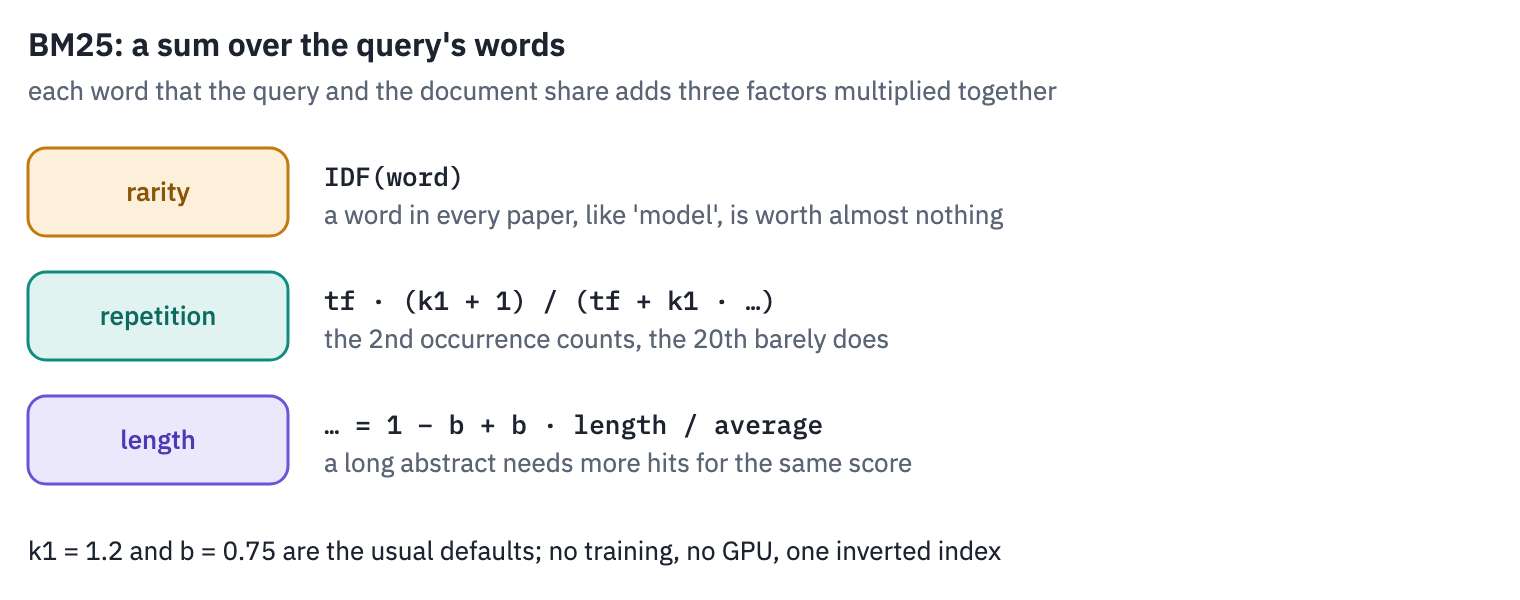
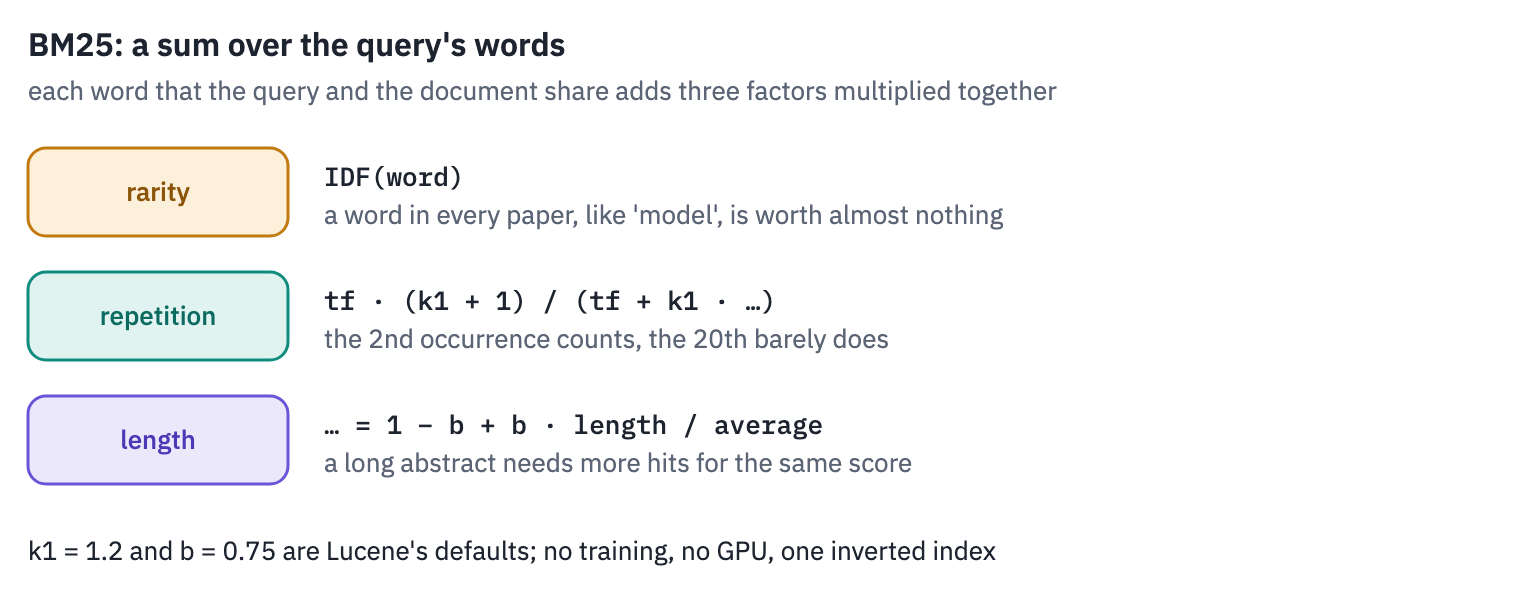
Lesson a03: checked facts — BM25 origin and defaults, BGE instruction, MS MARCO labels, ColBERT and PLAID numbers

Changed region(s): [[0.2164, 0.9, 0.6803, 0.96]]

diff --git a/architectures/a03_search/lesson.py b/architectures/a03_search/lesson.py
@@ -68,8 +68,10 @@ half = torch.float16 if device == "cuda" else torch.float32  # what indexes are 
 # LitSearch is a benchmark built at Princeton from the way researchers look for papers
 # ([Ajith et al., 2024](https://arxiv.org/abs/2407.18940)). Some of its 597 questions were written by GPT-4 from
 # paragraphs of real papers that cite other work, and ask for the paper behind the citation; the others were
-# written by the authors of recent ACL and ICLR papers about their own papers. Experts checked or edited every one.
-# The corpus is 64,183 machine-learning and NLP papers, and each question names the one or few papers it is after.
+# written by authors of ACL 2023 and ICLR 2024 papers about their own papers. The benchmark's authors checked every
+# question by hand. The corpus is 64,183 papers from the ACL Anthology and ICLR, and each question names the one or
+# few papers it is after. The benchmark was not built to flatter anyone: in its paper, Google Search and research
+# tools lagged behind the best neural retriever "by up to 32 recall points".
 #
 # The corpus files also hold the full text of every paper, more than a gigabyte of it. We need only titles and
 # abstracts, and Parquet stores every column separately, so we read just those three columns straight from the
@@ -146,8 +148,10 @@ def evaluate(name, scores, seconds, index_bytes):
 #
 # Before any neural network, search engines scored a document by the words it shares with the query, and the
 # formula most of them settled on is **BM25**, from Stephen Robertson's Okapi system at City University London in
-# the 1990s. It is still the default ranking of Lucene, Elasticsearch and OpenSearch, and the first baseline in
-# every retrieval paper. For a query $q$ and a document $d$:
+# the 1990s; its report for TREC-3 says, with no ceremony, "we in effect combined BM11 and BM15 into a single
+# function BM25" ([Robertson et al., 1995](https://trec.nist.gov/pubs/trec3/papers/city.ps.gz)). Thirty years later
+# it is the default ranking of Lucene, Elasticsearch and OpenSearch, and the first baseline in every retrieval
+# paper. For a query $q$ and a document $d$:
 #
 # $$\text{BM25}(q, d) = \sum_{w \in q} \text{IDF}(w) \cdot
 # \frac{f(w, d)\,(k_1 + 1)}{f(w, d) + k_1 \left(1 - b + b\,\frac{|d|}{\text{avgdl}}\right)},
@@ -250,7 +254,9 @@ evaluate("BM25", bm25_scores, time.time() - start, postings * 8)  # int32 id + f
 #
 # The obvious way to turn an encoder into a search engine is to average the vectors it computes for the tokens of a
 # text and compare the averages by cosine. Reimers and Gurevych tried it with BERT and found that it "yields rather
-# bad sentence embeddings, often worse than averaging GloVe embeddings". Let's see why.
+# bad sentence embeddings, often worse than averaging GloVe embeddings". On their semantic similarity tests, averaged
+# BERT vectors scored 54.8, BERT's `[CLS]` vector 29.2, and plain averaged GloVe word vectors from 2014 scored 61.3.
+# Let's see why.
 #
 # We take **MiniLM-L6**, a small encoder with BERT's architecture. Microsoft distilled a 12-layer, 384-wide MiniLM
 # from a larger model ([Wang et al., 2020](https://arxiv.org/abs/2002.10957)), and Nils Reimers, the same one, cut it
@@ -443,8 +449,9 @@ plt.show()
 
 # %% [markdown]
 # Two random papers have a cosine of about 0.8 here, and a question with the paper it asks for is barely closer.
-# All the vectors crowd into a narrow cone, a property of contextual representations that
-# [Ethayarajh (2019)](https://arxiv.org/abs/1909.00512) measured in BERT, ELMo and GPT-2 and called **anisotropy**.
+# All the vectors crowd together. [Ethayarajh (2019)](https://arxiv.org/abs/1909.00512) found the same in almost
+# every layer of BERT, ELMo and GPT-2: their representations are **anisotropic**, "occupying a narrow cone in the
+# vector space" instead of spreading in all directions.
 # Nothing in masked language modelling asked the model to put texts with similar meanings close together and the
 # rest far apart; the vectors are good for predicting the next layer's job, not for being compared with each other.
 # To compare, the encoder has to be trained to compare.
@@ -456,9 +463,10 @@ plt.show()
 # calls it siamese), with mean pooling on top. All the novelty is in the training. In 2019 it learned from pairs of
 # sentences labelled by people as entailment, contradiction or neutral, the SNLI and MultiNLI datasets. Today the
 # standard is **contrastive training with in-batch negatives**, which needs no labels at all, only pairs of texts
-# that belong together: a question and its answer, a title and its abstract
-# ([Henderson et al., 2017](https://arxiv.org/abs/1705.00652);
-# [Karpukhin et al., 2020](https://arxiv.org/abs/2004.04906)).
+# that belong together: a question and its answer, a title and its abstract. Google's Smart Reply team put it in one
+# sentence: "we use the responses of other examples in a training batch ... as negative responses"
+# ([Henderson et al., 2017](https://arxiv.org/abs/1705.00652)), and Dense Passage Retrieval made the trick standard
+# for search ([Karpukhin et al., 2020](https://arxiv.org/abs/2004.04906)).
 #
 # <img src="https://raw.githubusercontent.com/xmarva/transformers-from-scratch/main/assets/figures/a03/inbatch-light.png" width="760" alt="Training with in-batch negatives. A batch holds the titles and abstracts of four papers. Every title is compared with every abstract; for each title, its own abstract is the right answer and the other abstracts of the batch are wrong ones, so the loss is cross-entropy over each row of the similarity matrix">
 #
@@ -468,7 +476,8 @@ plt.show()
 # $$\mathcal{L} = -\frac{1}{B} \sum_{i=1}^{B} \log
 # \frac{\exp\left(s \cdot \cos(t_i, a_i)\right)}{\sum_{j=1}^{B} \exp\left(s \cdot \cos(t_i, a_j)\right)}$$
 #
-# This loss has many names: InfoNCE, the multiple negatives ranking loss, NT-Xent. The scale $s = 20$, a temperature
+# This loss has many names: InfoNCE ([van den Oord et al., 2018](https://arxiv.org/abs/1807.03748)), the multiple
+# negatives ranking loss, NT-Xent. The scale $s = 20$, a temperature
 # of 0.05, is what the sentence-transformers library uses by default: cosines live in $[-1, 1]$, and without the
 # scale the softmax over them would be almost flat.
 #
@@ -577,11 +586,12 @@ plt.show()
 # %% [markdown]
 # ## 5. What a billion pairs buy
 #
-# **all-MiniLM-L6-v2** is the most downloaded sentence-embedding model on the Hugging Face Hub. Its model card says
+# **all-MiniLM-L6-v2** is not just the most popular embedding model: with 184 million downloads in the month before
+# this lesson was written, it is the most downloaded model of any kind on the Hugging Face Hub. Its model card says
 # it started from exactly our `nreimers/MiniLM-L6-H384-uncased` and was trained with the same loss, on 1,170,060,424
 # pairs from 290 sources: Reddit, Stack Exchange, WikiAnswers, PAQ, and 41,769,185 titles with their abstracts from
-# the S2ORC corpus of scientific papers, which is our task at seven hundred times our scale. It trained for 100,000
-# steps of 1,024 pairs on a TPU v3-8.
+# the S2ORC corpus of scientific papers, which is our task at 750 times our scale. It trained for 100,000 steps of
+# 1,024 pairs on a TPU v3-8.
 #
 # Same architecture, same starting point, same loss; only the data differ. Its weights load into our code, and the
 # check against Hugging Face's `BertModel`:
@@ -606,8 +616,9 @@ minilm_docs, minilm_scores = dense_search("all-MiniLM-L6-v2", minilm)
 # **BGE** models from the Beijing Academy of Artificial Intelligence are a newer generation of the same idea
 # ([Xiao et al., 2023](https://arxiv.org/abs/2309.07597)): BERT's architecture again, with pre-training aimed at
 # retrieval, contrastive training on a larger and cleaner collection, and a final round on labelled data. The base
-# size has 12 layers and 768 dimensions. Its model card asks for two things that are easy to miss: the embedding is
-# the vector of `[CLS]`, not the mean, and a query, though not a document, starts with an instruction.
+# size has 12 layers and 768 dimensions. Its model card says two things that are easy to miss: the embedding is the
+# vector of `[CLS]`, not the mean, and a query, though not a document, should start with an instruction; without
+# it, the card promises "a slight degradation".
 
 # %%
 BGE = "BAAI/bge-base-en-v1.5"
@@ -629,19 +640,20 @@ table(pd.DataFrame(results))
 # ## 6. The cross-encoder: reading the question and the paper together
 #
 # A bi-encoder never sees the query and the document at the same time; it compares two summaries written
-# independently. A **cross-encoder** is plain BERT used the way lesson 1 used it for pairs of sentences: the query
-# and the document go in as one input, `[CLS] query [SEP] document [SEP]`, the two parts marked by their segment
-# ids, and every token of the query attends to every token of the document in every layer. On top sits a classifier
-# that turns the `[CLS]` vector into one number, a relevance score.
+# independently. A **cross-encoder** is plain BERT reading a pair of texts, in the input format of lesson 1: the
+# query and the document go in as one sequence, `[CLS] query [SEP] document [SEP]`, the two parts marked by their
+# segment ids, and every token of the query attends to every token of the document in every layer. On top sits a
+# classifier that turns the `[CLS]` vector into one number, a relevance score.
 #
-# It is the most accurate of the three architectures and the most expensive: nothing can be computed before the
-# query arrives. Scoring all 58,000 papers for one question would take 58,000 passes of the encoder. So a
-# cross-encoder is used as a **reranker**: a fast retriever proposes a few dozen candidates and the cross-encoder
-# reorders them.
+# Putting BERT on top of BM25 this way was one of the first places where BERT took over search
+# ([Nogueira & Cho, 2019](https://arxiv.org/abs/1901.04085)). It is the most accurate of the three architectures and
+# the most expensive: nothing can be computed before the query arrives. Scoring all 58,000 papers for one question
+# would take 58,000 passes of the encoder. So a cross-encoder is used as a **reranker**: a fast retriever proposes a
+# few dozen candidates and the cross-encoder reorders them.
 #
-# We take `cross-encoder/ms-marco-MiniLM-L6-v2`, the same six-layer MiniLM trained on MS MARCO, a million Bing queries
-# with the passages people clicked. Besides the encoder it has BERT's **pooler**, a dense layer with tanh on the
-# `[CLS]` vector, and the classifier with a single output.
+# We take `cross-encoder/ms-marco-MiniLM-L6-v2`, the same six-layer MiniLM trained on MS MARCO: real Bing queries,
+# each with the passages that human editors marked as containing the answer. Besides the encoder it has BERT's
+# **pooler**, a dense layer with tanh on the `[CLS]` vector, and the classifier with a single output.
 
 # %%
 class CrossEncoder(nn.Module):
@@ -713,7 +725,8 @@ reranked_minilm = rerank("all-MiniLM-L6-v2 → reranker", minilm_scores.to(devic
 # document separately, so the documents can be indexed in advance. Unlike it, ColBERT keeps a vector for every
 # token, shrunk by a linear layer from 768 dimensions to 128 and normalised. The query and the document meet only at
 # the very end, in **MaxSim**: every query token finds the document token most similar to it, and the document's
-# score is the sum of these best matches.
+# score is the sum of these best matches. Against a BERT reranker, the paper reported search "two
+# orders-of-magnitude faster and requiring four orders-of-magnitude fewer FLOPs per query".
 #
 # $$\text{score}(q, d) = \sum_{i \in q} \max_{j \in d} \cos(q_i, d_j)$$
 #
@@ -764,7 +777,7 @@ def colbert_queries(texts, length=32):
                               truncation=True, max_length=length,
                               return_tensors="pt").to(device)
     ids, attended = batch["input_ids"], batch["attention_mask"]
-    ids[:, 1] = Q_MARKER  # the ". " held its place
+    ids[:, 1] = Q_MARKER  # the original ColBERT code's trick: ". " held the marker's place
     ids[ids == colbert_tokenizer.pad_token_id] = colbert_tokenizer.mask_token_id
     with torch.autocast(device, dtype=torch.float16, enabled=device == "cuda"):
         return colbert(ids, attended == 0).to(half), ids
@@ -962,12 +975,14 @@ for question in [
 # document. Fusing the two is nearly free and usually better than either. A cross-encoder on the top few dozen is
 # the most reliable way to buy a few more points, paid for in latency on every query. ColBERT gets much of the
 # reranker's precision at first-stage speed, and pays in memory; ColBERTv2's residual compression cuts that index
-# several times, and the PLAID engine makes it fast on CPUs.
+# "by 6–10×", and the PLAID engine searches it up to "7× on a GPU and 45× on a CPU" faster than vanilla ColBERTv2
+# ([Santhanam et al., 2022](https://arxiv.org/abs/2205.09707)).
 #
 # Choosing an embedding model is now a matter of reading a leaderboard such as MTEB
 # ([Muennighoff et al., 2022](https://arxiv.org/abs/2210.07316)) and then checking on your own data, because the
-# leaderboard's tasks are not yours. Many of the models at its top today are no longer encoders but decoders, large
-# language models turned into embedders by the same contrastive recipe; the next lessons are about decoders.
+# leaderboard's tasks are not yours. Since 2024 its top places have mostly gone not to encoders but to decoders,
+# large language models such as NV-Embed and Qwen3-Embedding turned into embedders by the same contrastive recipe;
+# the next lessons are about decoders.
 #
 # The cheapest win in the lesson was the one that needed no labels: training on the corpus's own titles and
 # abstracts. If your documents have that kind of structure, use it before you buy a bigger model.
@@ -983,14 +998,16 @@ for question in [
 #
 # - Reimers, N., & Gurevych, I. (2019). [Sentence-BERT: sentence embeddings using Siamese BERT-networks](https://arxiv.org/abs/1908.10084). *EMNLP-IJCNLP 2019*.
 # - Ajith, A., Xia, M., Chevalier, A., Goyal, T., Chen, D., & Gao, T. (2024). [LitSearch: a retrieval benchmark for scientific literature search](https://arxiv.org/abs/2407.18940). *EMNLP 2024*.
-# - Robertson, S. E., Walker, S., Jones, S., Hancock-Beaulieu, M., & Gatford, M. (1994). [Okapi at TREC-3](https://trec.nist.gov/pubs/trec3/papers/city.ps.gz). *TREC-3*.
+# - Robertson, S. E., Walker, S., Jones, S., Hancock-Beaulieu, M., & Gatford, M. (1995). [Okapi at TREC-3](https://trec.nist.gov/pubs/trec3/papers/city.ps.gz). *The Third Text REtrieval Conference (TREC-3)*, NIST SP 500-226.
 # - Wang, W., Wei, F., Dong, L., Bao, H., Yang, N., & Zhou, M. (2020). [MiniLM: deep self-attention distillation for task-agnostic compression of pre-trained transformers](https://arxiv.org/abs/2002.10957). *NeurIPS 2020*.
 # - Ethayarajh, K. (2019). [How contextual are contextualized word representations? Comparing the geometry of BERT, ELMo, and GPT-2 embeddings](https://arxiv.org/abs/1909.00512). *EMNLP-IJCNLP 2019*.
 # - Henderson, M., Al-Rfou, R., Strope, B., Sung, Y., Lukács, L., Guo, R., Kumar, S., Miklos, B., & Kurzweil, R. (2017). [Efficient natural language response suggestion for Smart Reply](https://arxiv.org/abs/1705.00652). arXiv:1705.00652.
+# - van den Oord, A., Li, Y., & Vinyals, O. (2018). [Representation learning with contrastive predictive coding](https://arxiv.org/abs/1807.03748). arXiv:1807.03748.
 # - Karpukhin, V., Oğuz, B., Min, S., Lewis, P., Wu, L., Edunov, S., Chen, D., & Yih, W. (2020). [Dense passage retrieval for open-domain question answering](https://arxiv.org/abs/2004.04906). *EMNLP 2020*.
-# - Xiao, S., Liu, Z., Zhang, P., & Muennighoff, N. (2023). [C-Pack: packaged resources to advance general Chinese embedding](https://arxiv.org/abs/2309.07597). arXiv:2309.07597.
+# - Xiao, S., Liu, Z., Zhang, P., Muennighoff, N., Lian, D., & Nie, J.-Y. (2023). [C-Pack: packed resources for general Chinese embeddings](https://arxiv.org/abs/2309.07597). *SIGIR 2024*.
 # - Nogueira, R., & Cho, K. (2019). [Passage re-ranking with BERT](https://arxiv.org/abs/1901.04085). arXiv:1901.04085.
 # - Khattab, O., & Zaharia, M. (2020). [ColBERT: efficient and effective passage search via contextualized late interaction over BERT](https://arxiv.org/abs/2004.12832). *SIGIR 2020*.
 # - Santhanam, K., Khattab, O., Saad-Falcon, J., Potts, C., & Zaharia, M. (2022). [ColBERTv2: effective and efficient retrieval via lightweight late interaction](https://arxiv.org/abs/2112.01488). *NAACL 2022*.
+# - Santhanam, K., Khattab, O., Potts, C., & Zaharia, M. (2022). [PLAID: an efficient engine for late interaction retrieval](https://arxiv.org/abs/2205.09707). *CIKM 2022*.
 # - Cormack, G. V., Clarke, C. L. A., & Büttcher, S. (2009). [Reciprocal rank fusion outperforms Condorcet and individual rank learning methods](https://doi.org/10.1145/1571941.1572114). *SIGIR 2009*.
 # - Muennighoff, N., Tazi, N., Magne, L., & Reimers, N. (2022). [MTEB: massive text embedding benchmark](https://arxiv.org/abs/2210.07316). *EACL 2023*.

diff --git a/architectures/a03_search/figures.py b/architectures/a03_search/figures.py
@@ -91,7 +91,7 @@ def bm25() -> Figure:
         fig.box(14, y, 130, 44, role=role, label=name)
         fig.text(162, y + 19, formula, kind="mono")
         fig.text(162, y + 38, meaning, kind="note")
-    fig.text(14, 280, "k1 = 1.2 and b = 0.75 are the usual defaults; no training, no GPU, one inverted index",
+    fig.text(14, 280, "k1 = 1.2 and b = 0.75 are Lucene's defaults; no training, no GPU, one inverted index",
              kind="body")
     return fig
 
